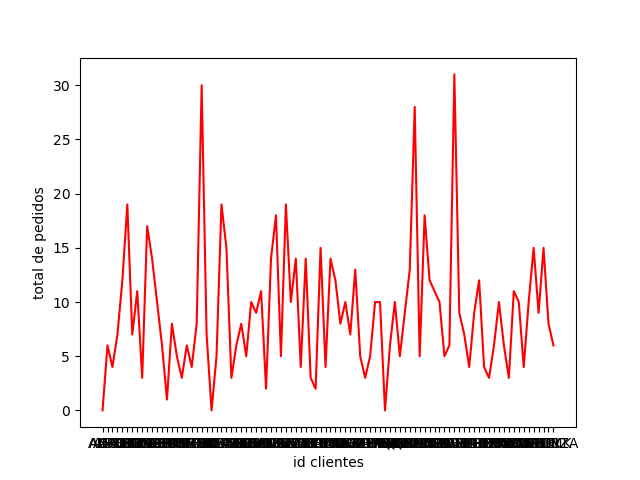
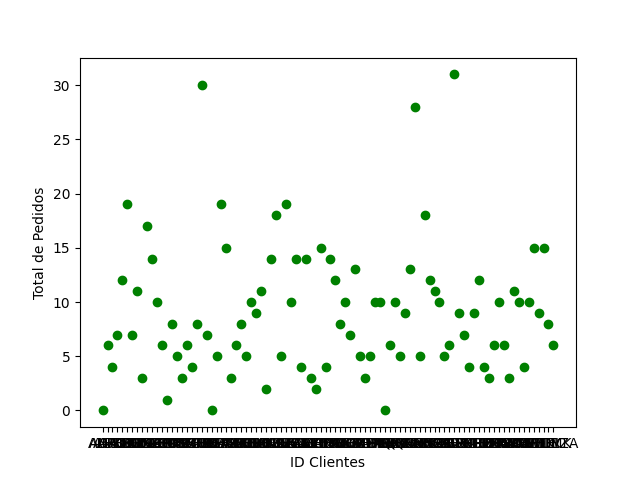
grafico 2 pendiente

diff --git a/ui/table_creator.py b/ui/table_creator.py
@@ -1,0 +1,43 @@
+import tkinter as tk
+from tkinter import ttk
+from tkinter import messagebox as mb
+from controller.db_controller import Db_controller as Controller
+
+
+class Table_creator:
+    def __init__(self, cuaderno):
+        self.Controller = Controller()
+        self.cuaderno1 = cuaderno
+
+    def form_create_table(self):
+        self.pagina1 = ttk.Frame(self.cuaderno1)
+        self.cuaderno1.add(self.pagina1, text="CREAR NUEVA TABLA")
+        self.labelframe1 = ttk.LabelFrame(self.pagina1, text="Nueva Tabla")
+        self.labelframe1.grid(column=0, row=0, padx=5, pady=10)
+
+        self.label1 = ttk.Label(self.labelframe1, text="Nombre Tabla:")
+        self.label1.grid(column=0, row=0, padx=4, pady=4)
+        self.nombre_tipo = tk.StringVar()
+        self.input_nombre = ttk.Entry(self.labelframe1, textvariable=self.nombre_tipo)
+        self.input_nombre.grid(column=1, row=0, padx=4, pady=4)
+
+        self.label1 = ttk.Label(self.labelframe1, text="Nombre Columna 1:")
+        self.label1.grid(column=0, row=1, padx=4, pady=4)
+        self.nombrecol1_tipo = tk.StringVar()
+        self.input_nombrecol1 = ttk.Entry(self.labelframe1, textvariable=self.nombrecol1_tipo)
+        self.input_nombrecol1.grid(column=1, row=1, padx=4, pady=4)
+
+
+        self.label1 = ttk.Label(self.labelframe1, text="Nombre Columna 2:")
+        self.label1.grid(column=0, row=2, padx=4, pady=4)
+        self.nombrecol2_tipo = tk.StringVar()
+        self.input_nombrecol2 = ttk.Entry(self.labelframe1, textvariable=self.nombrecol2_tipo)
+        self.input_nombrecol2.grid(column=1, row=2, padx=4, pady=4)
+
+        self.boton1 = ttk.Button(self.labelframe1, text="Añadir Nueva Tabla", command=self.create_new_table)
+        self.boton1.grid(column=0, row=3, padx=4, pady=4)
+
+    def create_new_table(self):
+        datos = (self.nombre_tipo.get(), self.nombrecol1_tipo.get(), self.nombrecol2_tipo.get(),)
+        self.Controller.create_new_table(datos)
+        mb.showinfo("Información", "Nueva Tabla Creada!")

diff --git a/controller/db_controller.py b/controller/db_controller.py
@@ -1,6 +1,6 @@
-from db.db_logic import Db_Logic as db
 from matplotlib import pyplot as pp
-from numpy import var
+
+from db.db_logic import Db_Logic as db
 
 
 class Db_controller:
@@ -60,7 +60,7 @@ class Db_controller:
     def order_product_by_id(self):
         self.database.order_product_by_id()
 
-    def obtener_grafica_cliente(self):
+    def obtener_grafica_cliente(self, tipo):
         clientes = []
         pedidos = []
         rs = self.database.get_client_id()
@@ -68,7 +68,40 @@ class Db_controller:
             clientes.append(c[0])
             p = self.database.get_count_of_pedidos_by_client(c)
             pedidos.append(p)
-        pp.plot(clientes, pedidos, color="red")
-        pp.xlabel("id clientes")
-        pp.ylabel("total de pedidos")
+
+        if tipo == "Plot":
+            pp.plot(clientes, pedidos, color="red")
+        elif tipo == "Scatter":
+            pp.scatter(clientes, pedidos, color="green")
+        elif tipo == "Fill-between":
+            pp.fill_between(clientes, pedidos, color="blue")
+
+        pp.xlabel("ID Clientes")
+        pp.ylabel("Total de Pedidos")
         pp.savefig("../graph/client-graph.png")
+
+    def create_new_table(self, datos):
+        self.database.create_new_table(datos)
+
+    def drop_table(self, tabla):
+        self.database.drop_table(tabla)
+
+    def grafica_clientes_cargo(self, tipo):
+        clientes = []
+        cargos = []
+        rs = self.database.get_client_cargos()
+        for c in rs:
+            clientes.append(c[0])
+            p = self.database.get_count_of_pedidos_by_client(c)
+            cargos.append(p)
+
+        if tipo == "Plot":
+            pp.plot(clientes, cargos, color="red")
+        elif tipo == "Scatter":
+            pp.scatter(clientes, cargos, color="green")
+        elif tipo == "Fill-between":
+            pp.fill_between(clientes, cargos, color="blue")
+
+        pp.xlabel("ID Clientes")
+        pp.ylabel("Cargo")
+        pp.savefig("../graph/client-graph2.png")

diff --git a/ui/cliente.py b/ui/cliente.py
@@ -96,9 +96,29 @@ class Cliente:
         self.boton100 = ttk.Button(self.labelframe1, text="Ordenar por id", command=self.order_by_id)
         self.boton100.grid(column=0, row=15, padx=4, pady=4)
 
-        self.boton101 = ttk.Button(self.labelframe1, text="Obtener gráfica de clientes",
+        self.combo = ttk.Combobox(
+            self.labelframe1,
+            state="readonly",
+            values=["Plot", "Scatter", "Fill-between"]
+        )
+
+        self.combo.grid(column=1, row=16, padx=4, pady=4)
+
+        self.boton101 = ttk.Button(self.labelframe1, text="Gráfica Relación clientes-pedidos",
                                    command=self.obtener_grafica_por_id)
         self.boton101.grid(column=0, row=16, pady=4, padx=5)
+
+        self.combo1 = ttk.Combobox(
+            self.labelframe1,
+            state="readonly",
+            values=["Plot", "Scatter", "Fill-between"]
+        )
+
+        self.combo1.grid(column=1, row=17, padx=4, pady=4)
+
+        self.boton101 = ttk.Button(self.labelframe1, text="Gráfica Relación clientes-cargo",
+                                   command=self.grafica_clientes_cargo)
+        self.boton101.grid(column=0, row=17, pady=4, padx=5)
 
     def agregar_cli(self):
         datos = (self.idcliente_tipo.get(), self.cia_tipo.get(), self.contacto_tipo.get(), self.cargo_tipo.get(),
@@ -148,4 +168,11 @@ class Cliente:
         self.Controller.order_by_id()
 
     def obtener_grafica_por_id(self):
-        self.Controller.obtener_grafica_cliente()
+        tipo = self.combo.get()
+        self.Controller.obtener_grafica_cliente(tipo)
+        mb.showinfo("Información", "PNG con Gráfica creado")
+
+    def grafica_clientes_cargo(self):
+        tipo = self.combo1.get()
+        self.Controller.grafica_clientes_cargo(tipo)
+        mb.showinfo("Información", "PNG con Gráfica creado")

diff --git a/db/db_logic.py b/db/db_logic.py
@@ -155,6 +155,11 @@ class Db_Logic:
             print(row)
         con.close()
 
+    def abrir(self):
+        # conexion = sqlite3.connect("../supermercado.db")
+        conexion = sqlite3.connect("C:/Users/grand/PycharmProjects/market_app_sge/supermercado.db")
+        return conexion
+
     def select_pedido_ordenado(self):
         con = self.abrir()
         cursor = con.cursor()
@@ -180,7 +185,23 @@ class Db_Logic:
         x = rs.fetchall()
         return len(x)
 
-    def abrir(self):
-        # conexion = sqlite3.connect("../supermercado.db")
-        conexion = sqlite3.connect("C:/Users/juang/PycharmProjects/market_app/supermercado.db")
-        return conexion
+    def create_new_table(self, datos):
+        con = self.abrir()
+        cursor = con.cursor()
+        sql = "CREATE TABLE IF NOT EXISTS {} ({} varchar(20),{} varchar(20))".format(datos[0], datos[1], datos[2])
+        cursor.execute(sql)
+        con.close()
+
+    def drop_table(self, datos):
+        con = self.abrir()
+        cursor = con.cursor()
+        sql = "drop table {}".format(datos[0])
+        cursor.execute(sql)
+        con.close()
+
+    def get_client_cargos(self):
+        con = self.abrir()
+        cursor = con.cursor()
+        sql = "select cargo from cliente "
+        rs = cursor.execute(sql)
+        return rs.fetchall()

diff --git a/ui/table_droper.py b/ui/table_droper.py
@@ -1,0 +1,31 @@
+import tkinter as tk
+from tkinter import ttk
+from tkinter import messagebox as mb
+from controller.db_controller import Db_controller as Controller
+
+
+class Table_droper:
+    def __init__(self, cuaderno):
+        self.Controller = Controller()
+        self.cuaderno1 = cuaderno
+
+    def form_drop_table(self):
+        self.pagina1 = ttk.Frame(self.cuaderno1)
+        self.cuaderno1.add(self.pagina1, text="BORRAR NUEVA TABLA")
+        self.labelframe1 = ttk.LabelFrame(self.pagina1, text="Borrar Tabla")
+        self.labelframe1.grid(column=0, row=0, padx=5, pady=10)
+
+        self.label1 = ttk.Label(self.labelframe1, text="Borrar tabla:")
+        self.label1.grid(column=0, row=2, padx=4, pady=4)
+
+        self.nombreborrar_tipo = tk.StringVar()
+        self.input_nombreborrar = ttk.Entry(self.labelframe1, textvariable=self.nombreborrar_tipo)
+        self.input_nombreborrar.grid(column=1, row=2, padx=4, pady=4)
+
+        self.boton1 = ttk.Button(self.labelframe1, text="Borrar Tabla", command=self.drop_table)
+        self.boton1.grid(column=0, row=3, padx=4, pady=4)
+
+    def drop_table(self):
+        tabla = (self.nombreborrar_tipo.get(),)
+        self.Controller.drop_table(tabla)
+        mb.showinfo("Información", "Tabla Borrada!")

diff --git a/ui/main.py b/ui/main.py
@@ -5,7 +5,8 @@ from ui.categoria import Categoria
 from ui.cliente import Cliente
 from ui.pedido import Pedido
 from ui.producto import Producto
-
+from ui.table_creator import Table_creator
+from ui.table_droper import Table_droper
 
 class FormularioTablas:
     def __init__(self):
@@ -18,10 +19,15 @@ class FormularioTablas:
         self.Cliente = Cliente(cuaderno=self.cuaderno1)
         self.Pedido = Pedido(cuaderno=self.cuaderno1)
         self.Producto = Producto(cuaderno=self.cuaderno1)
+        self.Table_creator = Table_creator(cuaderno=self.cuaderno1)
+        self.Table_droper = Table_droper(cuaderno=self.cuaderno1)
+
         self.Categoria.form_cat()
         self.Cliente.form_cliente()
         self.Pedido.form_pedido()
         self.Producto.tabla_productos()
+        self.Table_creator.form_create_table()
+        self.Table_droper.form_drop_table()
 
         self.cuaderno1.grid(column=0, row=0, padx=10, pady=10)
         self.ventana1.mainloop()
